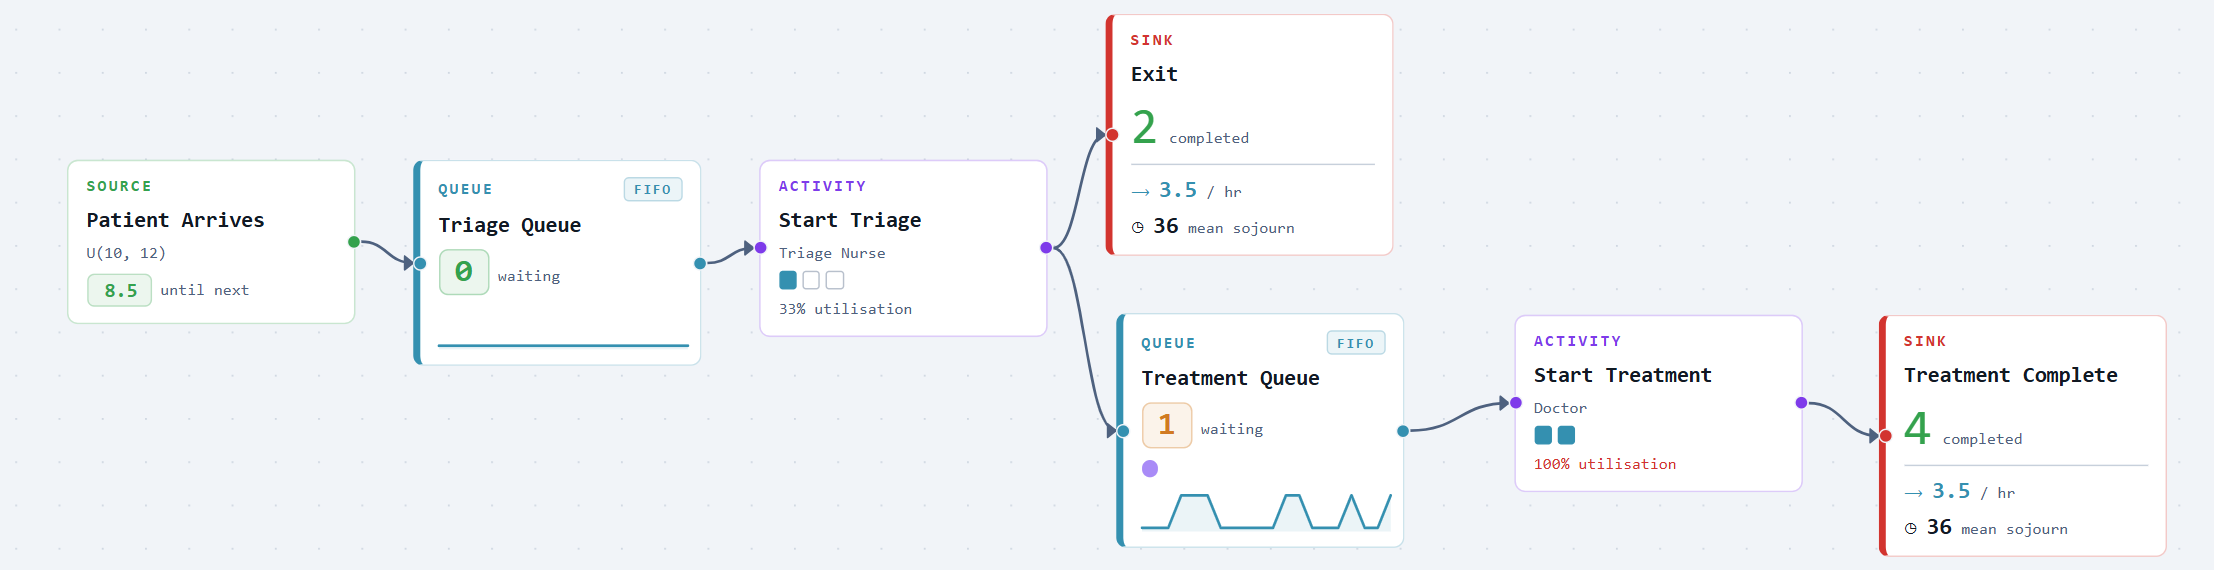
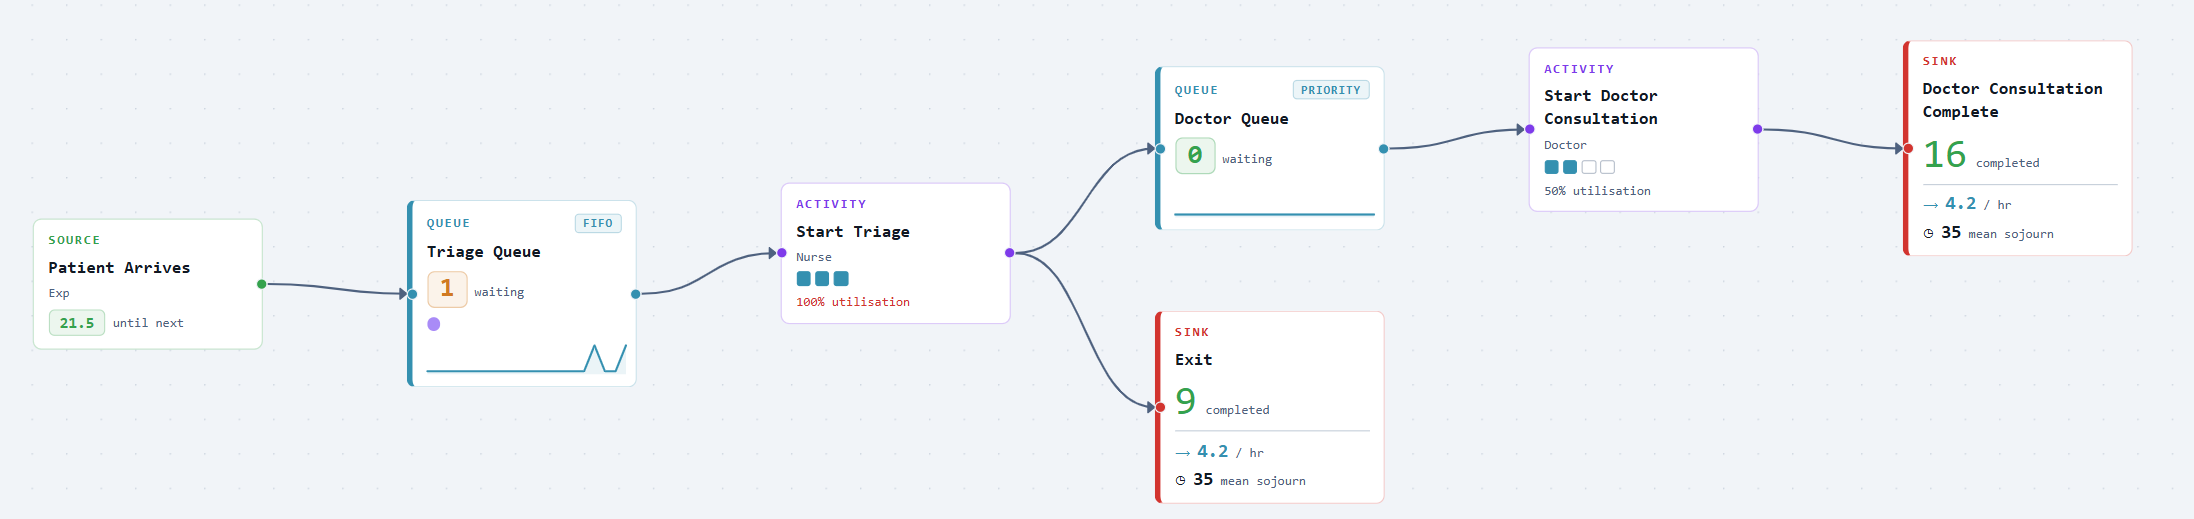
Refresh worked example story and images

diff --git a/index.html b/index.html
@@ -371,14 +371,53 @@ section { padding: 6rem 3rem; position: relative; }
 .scenario { background: var(--bg-2); }
 .scenario-p { font-size: 1rem; color: var(--mid); line-height: 1.82; font-weight: 300; margin-bottom: 1.125rem; }
 .scenario-p strong { color: var(--white); font-weight: 500; }
+.scenario-proof {
+  display: grid;
+  grid-template-columns: repeat(4, minmax(0, 1fr));
+  gap: 0.75rem;
+  margin: 2rem 0 3.5rem;
+}
+.scenario-stat {
+  background: var(--bg);
+  border: 1px solid var(--surface-line);
+  border-radius: 10px;
+  padding: 1rem;
+}
+.scenario-stat strong {
+  display: block;
+  font-family: var(--syne);
+  font-size: 1.45rem;
+  line-height: 1;
+  color: var(--teal);
+  margin-bottom: 0.45rem;
+}
+.scenario-stat span {
+  display: block;
+  color: var(--mid);
+  font-size: 0.76rem;
+  line-height: 1.45;
+}
 
 /* ── SCENARIO SHOTS ── */
 .scenario-intro { max-width: 720px; margin-bottom: 3.5rem; }
-.scenario-shots {
-  display: grid; grid-template-columns: repeat(3,1fr);
-  gap: 1.75rem; align-items: start;
+.scenario-intro + .scenario-proof { margin-top: -1.4rem; }
+.scenario-showcase {
+  display: grid;
+  grid-template-columns: repeat(2, minmax(0, 1fr));
+  gap: 1.25rem;
+  align-items: start;
 }
-.shot-item { display: flex; flex-direction: column; gap: 0.75rem; }
+.shot-item {
+  display: flex;
+  flex-direction: column;
+  gap: 0.75rem;
+  background: var(--bg);
+  border: 1px solid var(--surface-line);
+  border-radius: 12px;
+  padding: 1rem;
+  box-shadow: var(--shadow-soft);
+}
+.shot-item.primary { padding: 1rem; }
 .shot-step {
   font-family: var(--mono); font-size: 0.62rem; color: var(--teal);
   letter-spacing: 0.12em; text-transform: uppercase;
@@ -390,14 +429,19 @@ section { padding: 6rem 3rem; position: relative; }
 .shot-frame {
   border-radius: 10px; overflow: hidden;
   border: 1px solid var(--surface-border);
-  box-shadow: var(--shadow-soft);
   background: var(--bg-3);
   display: flex; align-items: center; justify-content: center;
-  min-height: 200px;
+  aspect-ratio: 16 / 10;
 }
+.shot-frame.proposal-frame { aspect-ratio: 16 / 9; }
+.shot-frame.run-frame { aspect-ratio: 3 / 1; }
+.shot-frame.explore-frame { aspect-ratio: 4 / 3; }
+.shot-frame.compare-frame { aspect-ratio: 1 / 1; }
 .shot-frame img {
-  display: block; width: 100%; height: auto;
+  display: block; width: 100%; height: 100%; object-fit: contain; object-position: top left;
 }
+.shot-frame.explore-frame img,
+.shot-frame.compare-frame img { object-position: top center; }
 .shot-caption { font-size: 0.8125rem; color: var(--mid); line-height: 1.62; }
 
 /* ── AUDIENCES ── */
@@ -468,9 +512,13 @@ footer {
   section{padding:4rem 1.5rem;} .hero{padding:7rem 1.5rem 4rem;}
   .proof-bar{padding:1.75rem 1.5rem;} .proof-inner{grid-template-columns:repeat(2,1fr);}
   .problem-split{grid-template-columns:1fr;gap:3rem;}
-  .scenario-shots{grid-template-columns:1fr;}
+  .scenario-proof{grid-template-columns:repeat(2,1fr);}
+  .scenario-showcase{grid-template-columns:1fr;}
   .steps,.feat-grid,.aud-grid{grid-template-columns:1fr;}
   .footer-inner{flex-direction:column;text-align:center;} .footer-links{justify-content:center;}
+}
+@media(max-width:560px){
+  .scenario-proof{grid-template-columns:1fr;}
 }
 </style>
 </head>
@@ -692,35 +740,54 @@ footer {
 <section class="scenario" id="example">
   <div class="section-inner">
     <div class="section-tag">Worked example</div>
-    <h2 class="section-h2">A&amp;E triage, modelled in 20 minutes.</h2>
+    <h2 class="section-h2">A&amp;E triage, from prompt to tested change in minutes.</h2>
     <div class="scenario-intro reveal">
-      <p class="scenario-p">An emergency department sees an average of <strong>12 patients per hour</strong>. High-acuity patients (30%) move straight into a priority queue, while low-acuity patients (70%) join a secondary queue. With <strong>3 clinicians</strong> shared across both streams, the department appears to run at about 87% utilisation, but the overall average hides a sharp difference in patient experience.</p>
-      <p class="scenario-p">Simmodlr turns that assumption into a working model, removes the early settling period, and repeats the run until the picture is stable. The result is a clear bottleneck at the doctor resource, AI-ranked improvement options, and a before/after comparison that makes the case for change quickly.</p>
+      <p class="scenario-p">The brief is written in plain English: patients arrive roughly every 10 minutes, one route leaves after triage, and the rest join a priority doctor queue. Simmodlr turns that description into a working emergency-department model with arrivals, queues, activities, resources, and exits ready to review.</p>
+      <p class="scenario-p">From there the model can be run, changed, and analysed. The assistant spots the doctor-capacity constraint, proposes moving doctors from <strong>3 to 4</strong>, and runs the comparison before the change is saved back to the model.</p>
     </div>
-    <div class="scenario-shots">
+
+    <div class="scenario-proof reveal">
+      <div class="scenario-stat"><strong>Design</strong><span>Describe the system and review the proposed model</span></div>
+      <div class="scenario-stat"><strong>Run</strong><span>Execute the pathway and watch the model behave</span></div>
+      <div class="scenario-stat"><strong>Analyse</strong><span>Use replicated results to understand the pressure points</span></div>
+      <div class="scenario-stat"><strong>Change</strong><span>Test the improvement before saving it to the model</span></div>
+    </div>
+
+    <div class="scenario-showcase">
       <div class="shot-item reveal d1">
-        <div class="shot-step">01 — Build</div>
-        <div class="shot-title">Draw the model visually</div>
-        <div class="shot-frame">
-          <img src="images/screenshot-draw.jpg" alt="Draw view: Patient Arrives → Triage Queue → Start Triage → 30% Exit / 70% Doctor Queue → Doctor Consultation Complete" loading="lazy">
+        <div class="shot-step">01 — Design</div>
+        <div class="shot-title">AI drafts the model from the brief</div>
+        <div class="shot-frame proposal-frame">
+          <img src="images/Proposed Model.png" alt="Model proposal describing emergency department triage with arrivals, triage queue, doctor priority queue, resources, and exits" loading="lazy">
         </div>
-        <p class="shot-caption">Sketch the emergency pathway directly on the canvas: arrivals, priority routing, secondary queues, and shared clinical capacity. The model structure is built as you draw.</p>
+        <p class="shot-caption">The proposal is readable before it is saved: who arrives, how they flow, which queues and resources are used, and what the model is intended to simulate.</p>
       </div>
+
       <div class="shot-item reveal d2">
-        <div class="shot-step">02 — Explore</div>
-        <div class="shot-title">AI finds the bottlenecks</div>
-        <div class="shot-frame">
-          <img src="images/screenshot-explore.jpg" alt="Explore panel: confidence ±3.9% achieved with 5 replications; bottlenecks, quick wins and investment opportunities each with Apply button" loading="lazy">
+        <div class="shot-step">02 — Run</div>
+        <div class="shot-title">Run the live pathway</div>
+        <div class="shot-frame run-frame">
+          <img src="images/Run.png" alt="Running model canvas showing patient arrivals, triage queue, doctor queue, exit, doctor consultation complete, utilisation, throughput, and waiting counts" loading="lazy">
         </div>
-        <p class="shot-caption">Repeated runs expose the doctor resource as the primary constraint. Simmodlr reads the outputs, separates quick wins from larger interventions, and ranks what to test next.</p>
+        <p class="shot-caption">The model is not a static diagram. During execution the canvas shows queues, completions, utilisation, throughput, and mean sojourn time as the patient flow unfolds.</p>
       </div>
-      <div class="shot-item reveal d3">
-        <div class="shot-step">03 — Compare</div>
-        <div class="shot-title">Measure the impact</div>
-        <div class="shot-frame">
-          <img src="images/screenshot-compare.jpg" alt="Model Assistant before/after: avg wait 6.78 → 0.02 minutes (−99.7%), avg sojourn 37.08 → 30.05 (−19%)" loading="lazy">
+
+      <div class="shot-item primary reveal d3">
+        <div class="shot-step">03 — Analyse</div>
+        <div class="shot-title">Explore turns replications into evidence</div>
+        <div class="shot-frame explore-frame">
+          <img src="images/Screenshot 2026-06-03 061616.png" alt="Explore results summary showing confidence achieved with 45 replications, average wait, time in system, arrivals, served patients, and no early leavers" loading="lazy">
         </div>
-        <p class="shot-caption">Compare the current pathway with the proposed change. The impact is visible in seconds, before staffing, routing, or budget decisions are locked in.</p>
+        <p class="shot-caption">Explore keeps running batches until the confidence target is met, then summarises the system in plain numbers: waits, time in system, arrivals, served patients, and whether anyone left before service.</p>
+      </div>
+
+      <div class="shot-item reveal d4">
+        <div class="shot-step">04 — Change</div>
+        <div class="shot-title">Test the proposed change safely</div>
+        <div class="shot-frame compare-frame">
+          <img src="images/Comapre.png" alt="Analyse and compare panel showing doctor bottleneck, proposed doctor capacity change from 3 to 4, and before-after performance metrics" loading="lazy">
+        </div>
+        <p class="shot-caption">The assistant identifies the doctor bottleneck, runs a temporary copy with one extra doctor, and shows the before-and-after effect before the user commits the change.</p>
       </div>
     </div>
   </div>